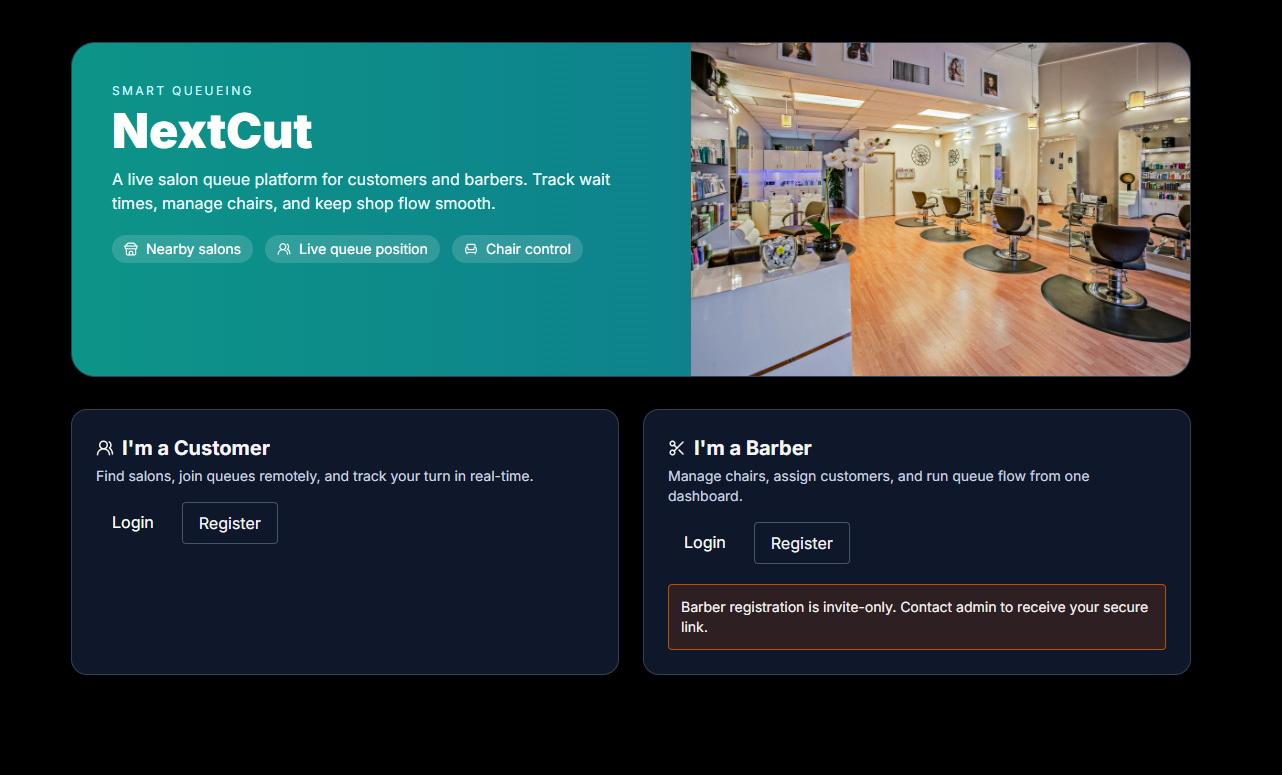
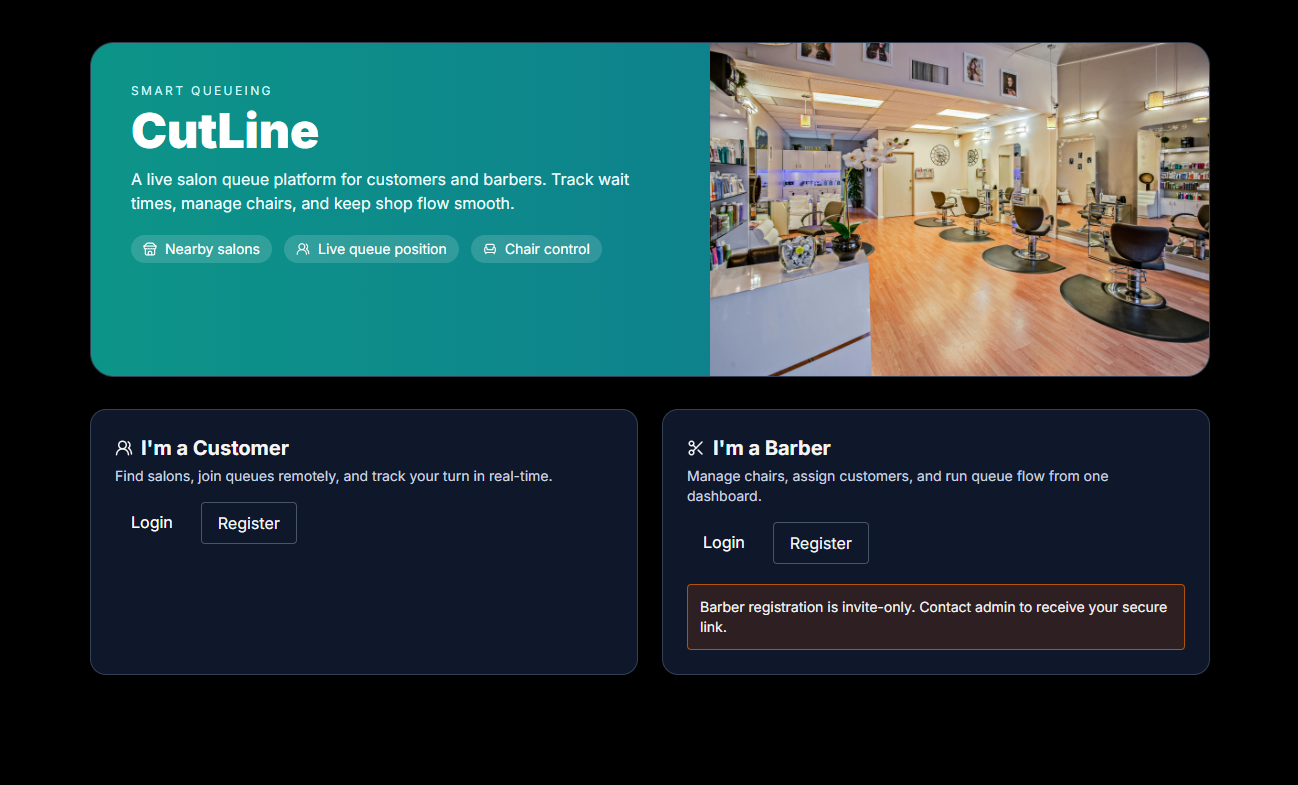
ss image fixed

Changed region(s): [[0.0312, 0.031, 0.936, 0.8981], [0.78, 0.031, 0.8424, 0.0929]]

diff --git a/client/src/pages/Landing.jsx b/client/src/pages/Landing.jsx
@@ -10,7 +10,7 @@ const Landing = () => {
             <p className="uppercase tracking-[0.2em] text-xs text-cyan-100">
               Smart Queueing
             </p>
-            <h1 className="text-4xl md:text-5xl font-black mt-2">NextCut</h1>
+            <h1 className="text-4xl md:text-5xl font-black mt-2">CutLine</h1>
             <p className="mt-3 text-cyan-50 max-w-xl">
               A live salon queue platform for customers and barbers. Track wait
               times, manage chairs, and keep shop flow smooth.

diff --git a/README.md b/README.md
@@ -1,11 +1,11 @@
-# NextCut
+# CutLine
 
-NextCut is a full-stack digital salon queue management system with two roles:
+CutLine is a full-stack digital salon queue management system with two roles:
 
 - Customer: discover nearby salons, join queue remotely, track live position
 - Barber: manage chairs, assign next customer, mark done/no-show in real-time
 
-![NextCut Screenshot](./ss1.png)
+![CutLine Screenshot](./ss1.png)
 
 ## Tech Stack
 
